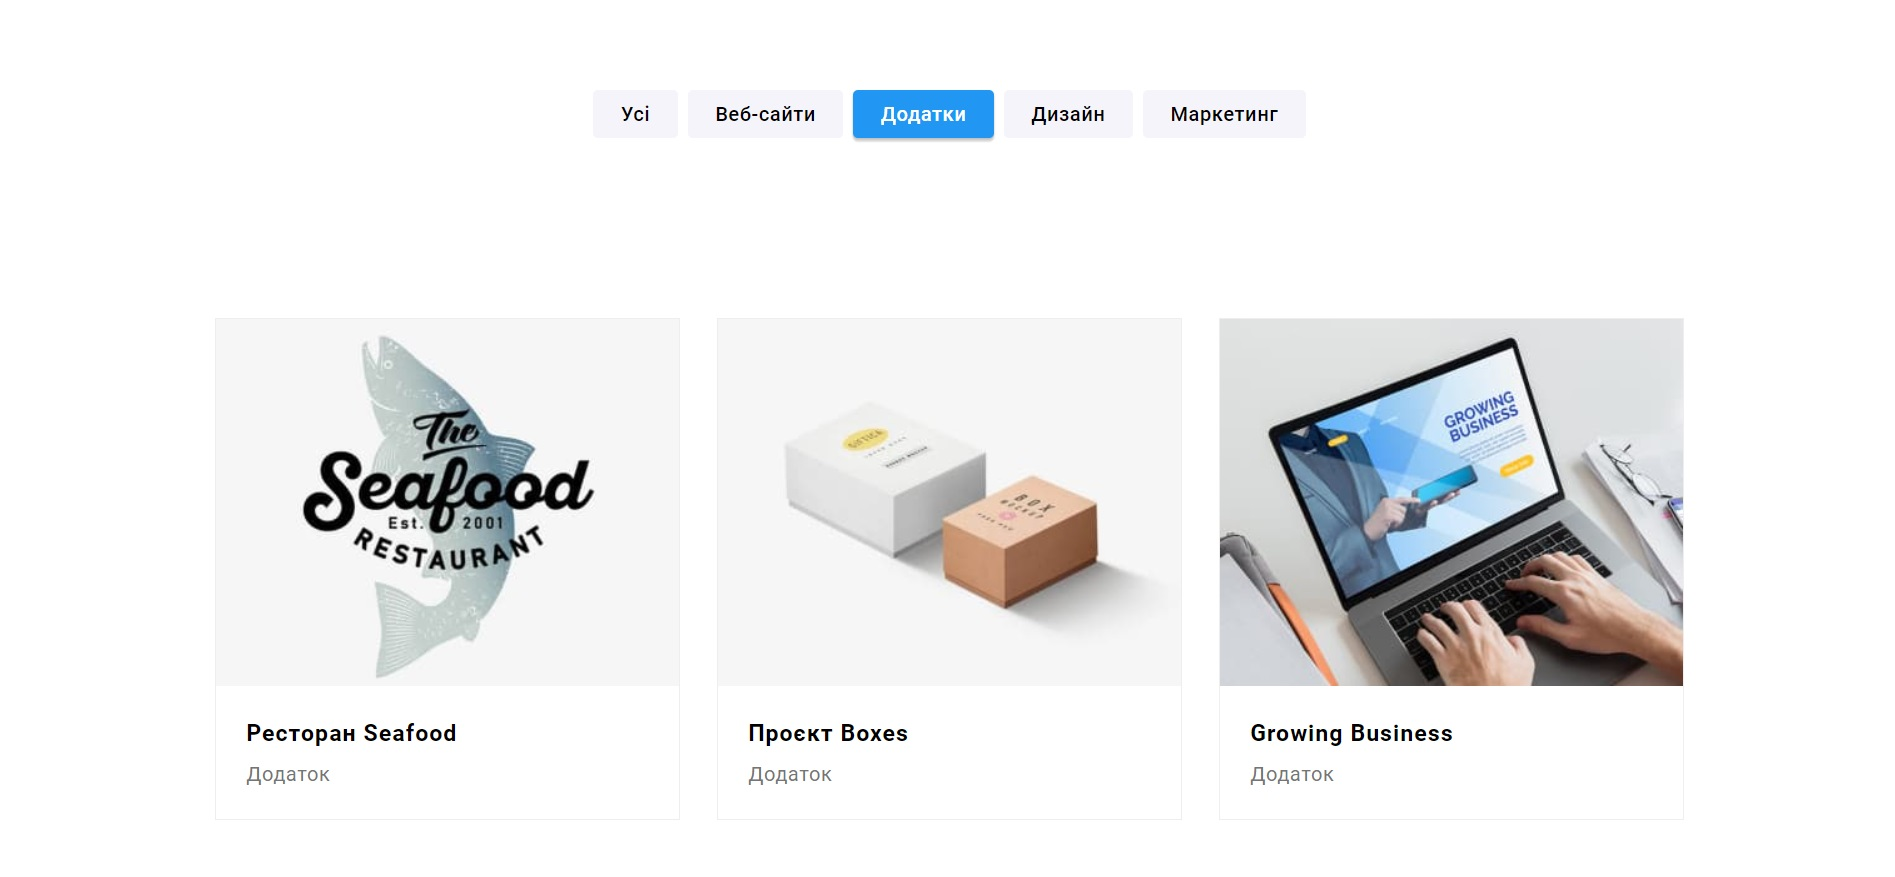
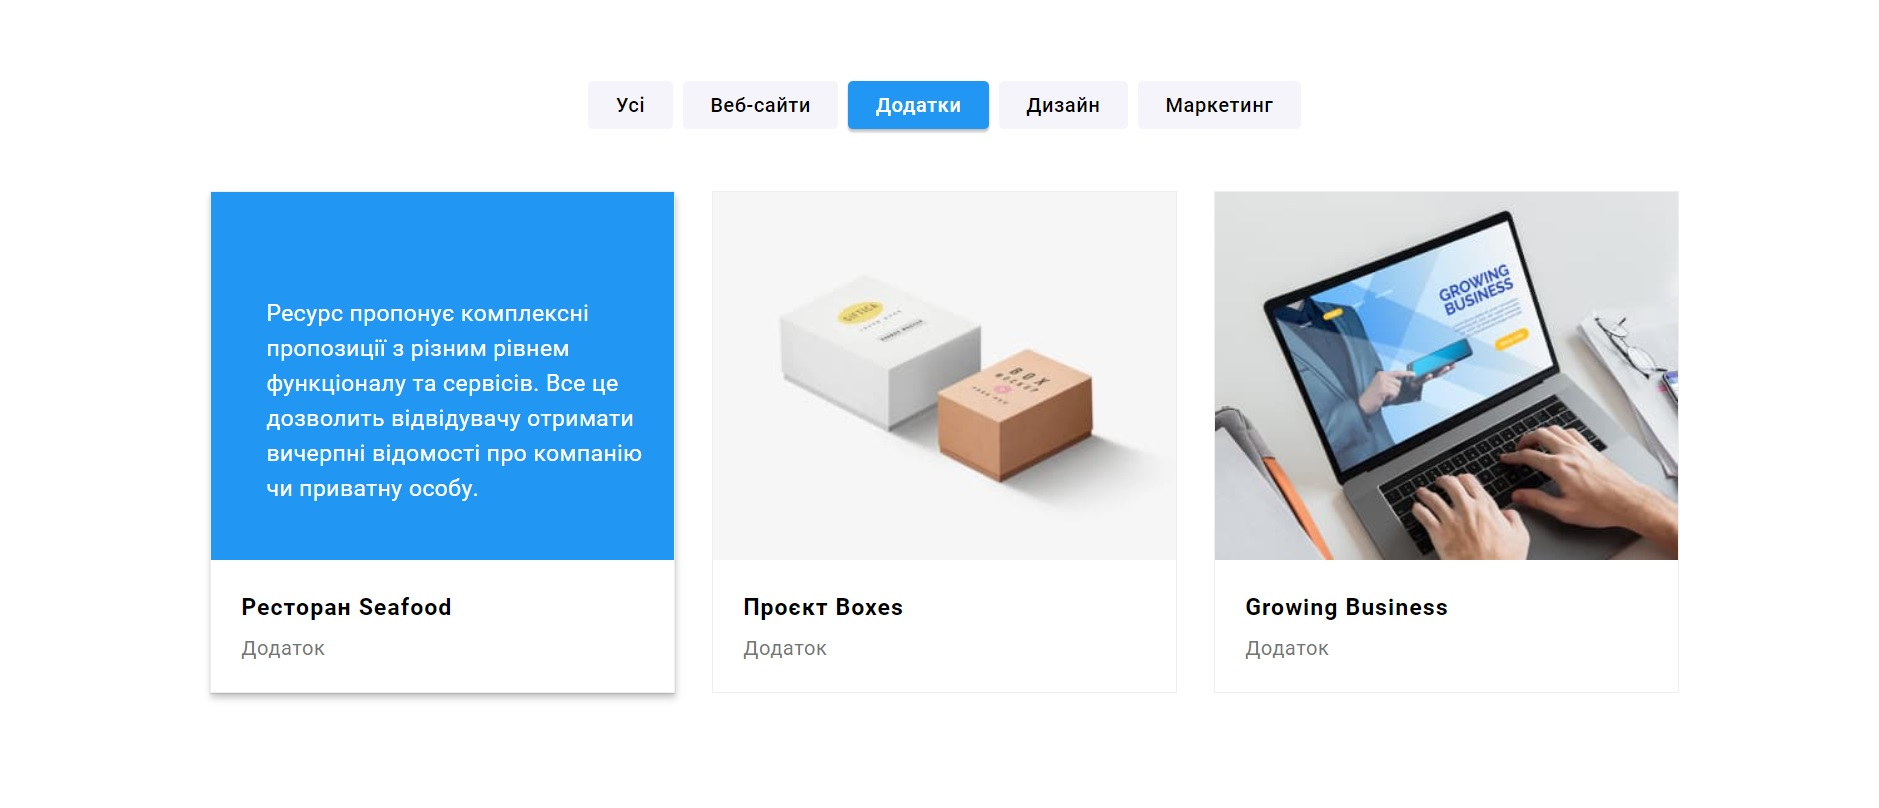
readme update

diff --git a/css/style.css b/css/style.css
@@ -34,11 +34,11 @@ html {
 .header {
   padding: 24px 0;
   border-bottom: #ececec solid 1px;
-  width: 100%;
+  /* width: 100%;
   position: fixed;
   top: 0;
   left: 0;
-  z-index: 100;
+  z-index: 100; */
   background-color: var(--background-color);
 }
 .header-container {
@@ -198,9 +198,9 @@ html {
   color: var(--logo1-color);
 }
 /* main */
-.wrapper {
+/* .wrapper {
   padding: 24px 0;
-}
+} */
 /* cap */
 .cap {
   background-color: var(--cap-color);

diff --git a/README.md b/README.md
@@ -1,6 +1,7 @@
 # WebStudio
 
-Це README файл для веб-сайту-портфоліо WebStudio. Цей веб-сайт призначений для демонстрації робіт, навичок і послуг, що надаються WebStudio.
+Це README файл для веб-сайту-портфоліо WebStudio. Цей веб-сайт призначений для демонстрації робіт,
+навичок і послуг, що надаються WebStudio.
 
 ![Webstudio](img/img-readme/readme-title.jpg)
 
@@ -10,13 +11,24 @@
 
 ## Опис
 
-Наша веб-студія спеціалізується на розробці веб-сайтів, веб-додатків і графічного дизайну. Ми працюємо з різними клієнтами, включаючи підприємства, стартапи та фізичних осіб. Наша мета - надавати високоякісні інтернет-рішення, які задовольняють потреби наших клієнтів.
+Наша веб-студія спеціалізується на розробці веб-сайтів, веб-додатків і графічного дизайну. Ми
+працюємо з різними клієнтами, включаючи підприємства, стартапи та фізичних осіб. Наша мета -
+надавати високоякісні інтернет-рішення, які задовольняють потреби наших клієнтів.
 
-- **Портфоліо**: На нашому сайті ви знайдете наші найкращі роботи і проекти. Ми пишемо короткий опис кожного проекту і надаємо зображення для візуального представлення.
+- **Портфоліо**: На нашому сайті ви знайдете наші найкращі роботи і проекти. Ми пишемо короткий опис
+  кожного проекту і надаємо зображення для візуального представлення.
 
 ![Portfolio](img/img-readme/readme-port.jpg)
 
-- **Послуги**: Ми надаємо інформацію про послуги, які ми пропонуємо. Це включає веб-розробку, дизайн і інші послуги, що стосуються нашої спеціалізації.
+- **Послуги**: Ми надаємо інформацію про послуги, які ми пропонуємо. Це включає веб-розробку, дизайн
+  і інші послуги, що стосуються нашої спеціалізації.
+- **Контакти**: Ми пропонуємо зручний спосіб зв'язку для потенційних клієнтів. Ви можете зв'язатися
+  з нами через форму зворотнього зв'язку, за телефоном, за допомогою електронної пошти, або через
+  соціальні мережі.
+
+<div align="center">
+<img src="img/img-readme/readme-modal.jpg" alt="Modal window" width="300">
+</div>
 
 ![Benefits and services](img/img-readme/readme-serv.jpg)
 
@@ -26,7 +38,11 @@
 
 ## Функціональність сайту
 
-- **Фільтрація** - на сторінці "Портфоліо" реалізована фільтрація за типами додатків.
+- **Фільтрація** - на сторінці "Портфоліо" реалізована фільтрація за типами Веб-Сайти, Додатки,
+  Дизайн та Маркетинг.
+
+- **Оверлей** - на сторінці "Портфоліо" реалізован оверлей; при наведенні курсор на проект
+  висвічується віконце з описом проекту.
 
 ![Filter](img/img-readme/readme-filter.jpg)
 
@@ -37,6 +53,7 @@
   <img src="https://github.com/devicons/devicon/blob/master/icons/css3/css3-original.svg" title="css" alt="css" width="40" height="40"/>&nbsp;
   <img src="https://github.com/devicons/devicon/blob/master/icons/git/git-original.svg" title="git" alt="git" width="40" height="40"/>&nbsp;
   <img src="https://github.com/devicons/devicon/blob/master/icons/javascript/javascript-original.svg" title="javascript" alt="javascript" width="40" height="40"/>&nbsp;
+  <img src="https://github.com/devicons/devicon/blob/master/icons/sass/sass-original.svg" title="sass" alt="sass" width="40" height="40"/>&nbsp;
 </div>
 
 **Інструменти**:
@@ -44,9 +61,9 @@
 <div>
     <img src="https://github.com/devicons/devicon/blob/master/icons/vscode/vscode-original.svg" title="vscode" alt="vscode" width="40" height="40"/>&nbsp;
   <img src="https://github.com/devicons/devicon/blob/master/icons/figma/figma-original.svg" title="figma" alt="figma" width="40" height="40"/>&nbsp;
+     <img src="https://github.com/devicons/devicon/blob/master/icons/github/github-original.svg" title="GitHub" alt="GitHub" width="40" height="40"/>&nbsp;
 </div>
 
 ## Про автора
 
-Цей веб-сайт був створений Святославом Калугіним
-[GitHub](https://https://github.com/CupheadUltra)
+Цей веб-сайт був створений Святославом Калугіним [GitHub](https://https://github.com/CupheadUltra)
